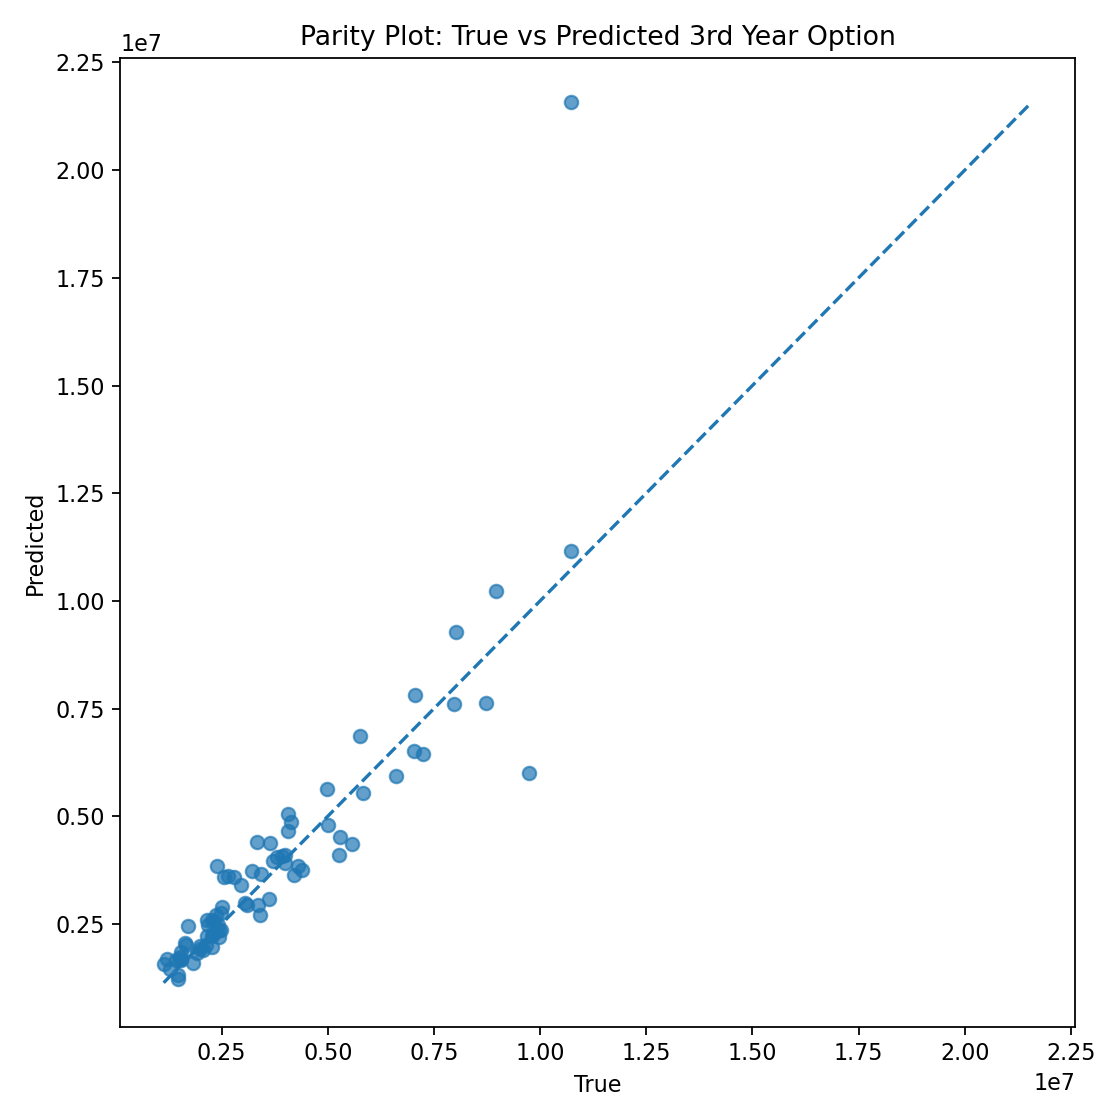
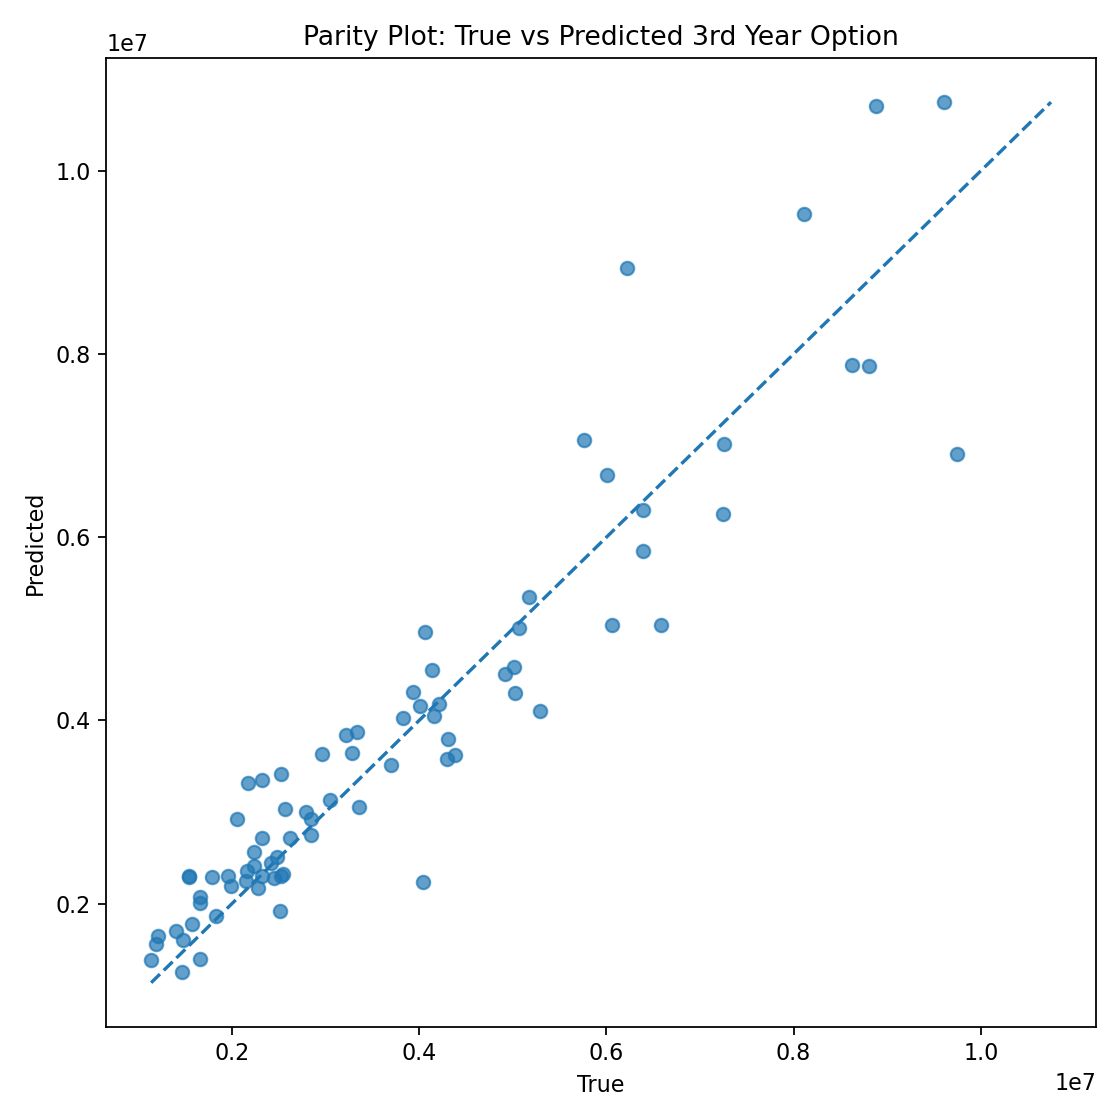
rerun XG

diff --git a/XGboost.py b/XGboost.py
@@ -20,6 +20,8 @@ FEATURE_COLS = [
     "assists_s1", "assists_s2",
     "rebounds_s1", "rebounds_s2",
     #"steals_s1", "steals_s2",
+    "RPM_s1","RPM_s2",
+    "USG_s1","USG_s2",
     "3pts_made_s1", "3pts_made_s2",
     "3pts_attempted_s1", "3pts_attempted_s2",
     "free_throws_made_s1", "free_throws_made_s2",
